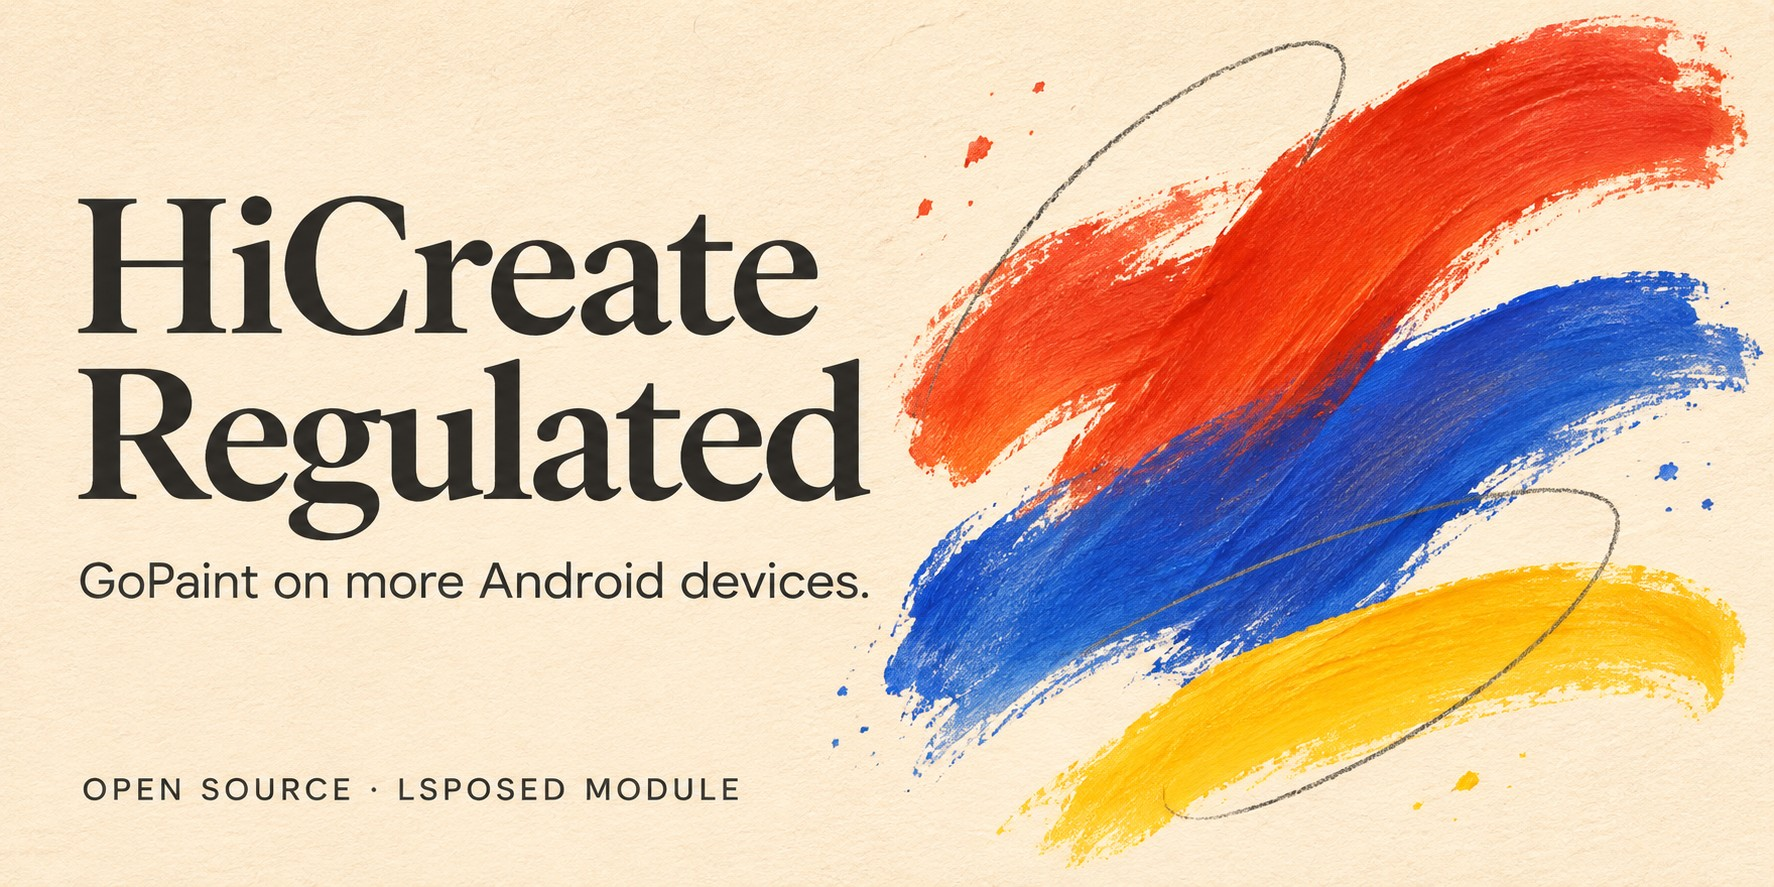
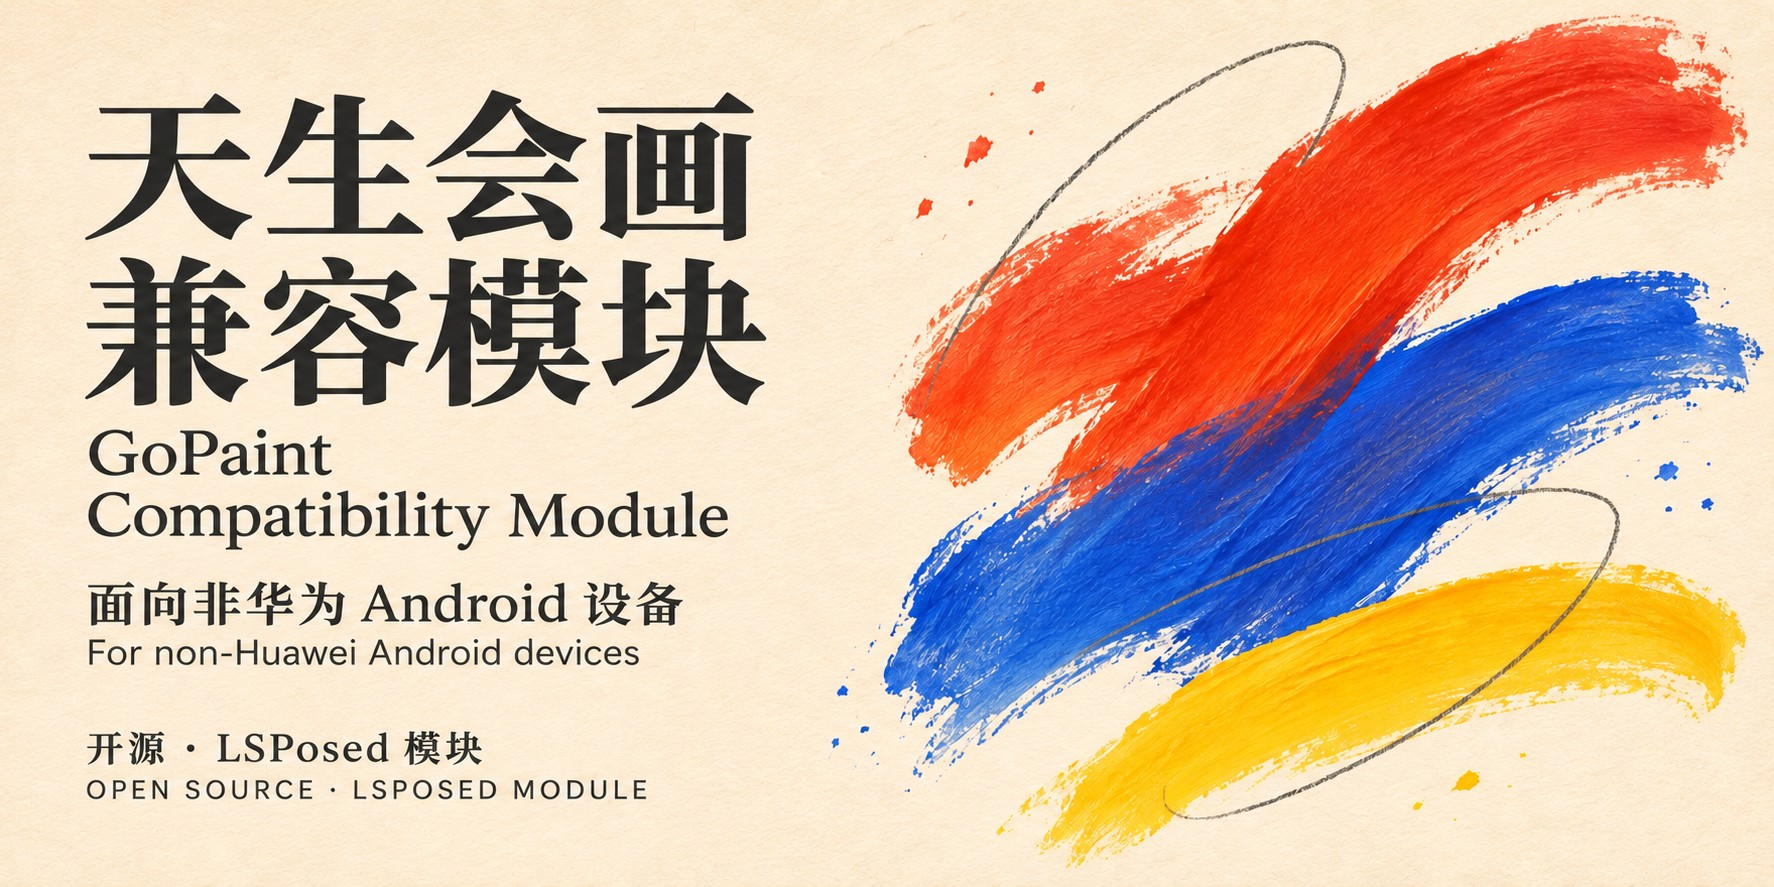
docs: use Chinese and English GoPaint module branding

diff --git a/README.md b/README.md
@@ -1,7 +1,8 @@
-![HiCreate Regulated — GoPaint on more Android devices](docs/images/cover.jpg)
+![天生会画兼容模块 / GoPaint Compatibility Module — 非华为 Android 设备](docs/images/cover.jpg)
 
-<h1 align="center">天生会画 / GoPaint 非华为兼容模块</h1>
-<p align="center">让更多 Android 设备用上天生会画。</p>
+<h1 align="center">天生会画兼容模块</h1>
+<p align="center"><strong>GoPaint Compatibility Module</strong></p>
+<p align="center">让更多非华为 Android 设备用上天生会画。<br />Huawei GoPaint on non-Huawei Android devices.</p>
 
 <p align="center">
   <a href="https://github.com/Orynnx/HiCreate-Regulated/releases/latest"><img src="docs/images/download-zh.svg" width="224" height="48" alt="下载模块 APK" /></a>
@@ -19,7 +20,7 @@
   <img src="https://img.shields.io/badge/License-Apache%202.0-a64b2a?style=flat-square" alt="Apache-2.0 source license" />
 </p>
 
-HiCreate Regulated 为原版 **天生会画（Huawei GoPaint / HiCreate）** 提供非华为
+本模块为原版 **天生会画（Huawei GoPaint / HiCreate）** 提供非华为
 Android 设备上的运行时兼容适配。安装独立 LSPosed 模块，保留原版应用 APK。
 
 > **开始前**：需要 Root、LSPosed API 102 和 Zygisk/同等注入环境；

diff --git a/README.en.md b/README.en.md
@@ -1,7 +1,8 @@
-![HiCreate Regulated — GoPaint on more Android devices](docs/images/cover.jpg)
+![GoPaint Compatibility Module / 天生会画兼容模块 — non-Huawei Android devices](docs/images/cover.jpg)
 
-<h1 align="center">Huawei GoPaint for non-Huawei Android</h1>
-<p align="center">GoPaint on more Android devices.</p>
+<h1 align="center">GoPaint Compatibility Module</h1>
+<p align="center"><strong>天生会画兼容模块</strong></p>
+<p align="center">Huawei GoPaint on non-Huawei Android devices.<br />让更多非华为 Android 设备用上天生会画。</p>
 
 <p align="center">
   <a href="https://github.com/Orynnx/HiCreate-Regulated/releases/latest"><img src="docs/images/download-en.svg" width="224" height="48" alt="Download module APK" /></a>
@@ -19,7 +20,7 @@
   <img src="https://img.shields.io/badge/License-Apache%202.0-a64b2a?style=flat-square" alt="Apache-2.0 source license" />
 </p>
 
-HiCreate Regulated provides runtime compatibility for the original **Huawei GoPaint
+This LSPosed module provides runtime compatibility for the original **Huawei GoPaint
 (天生会画 / HiCreate)** app on non-Huawei Android devices. Install a separate
 LSPosed module while keeping the original app APK.
 
